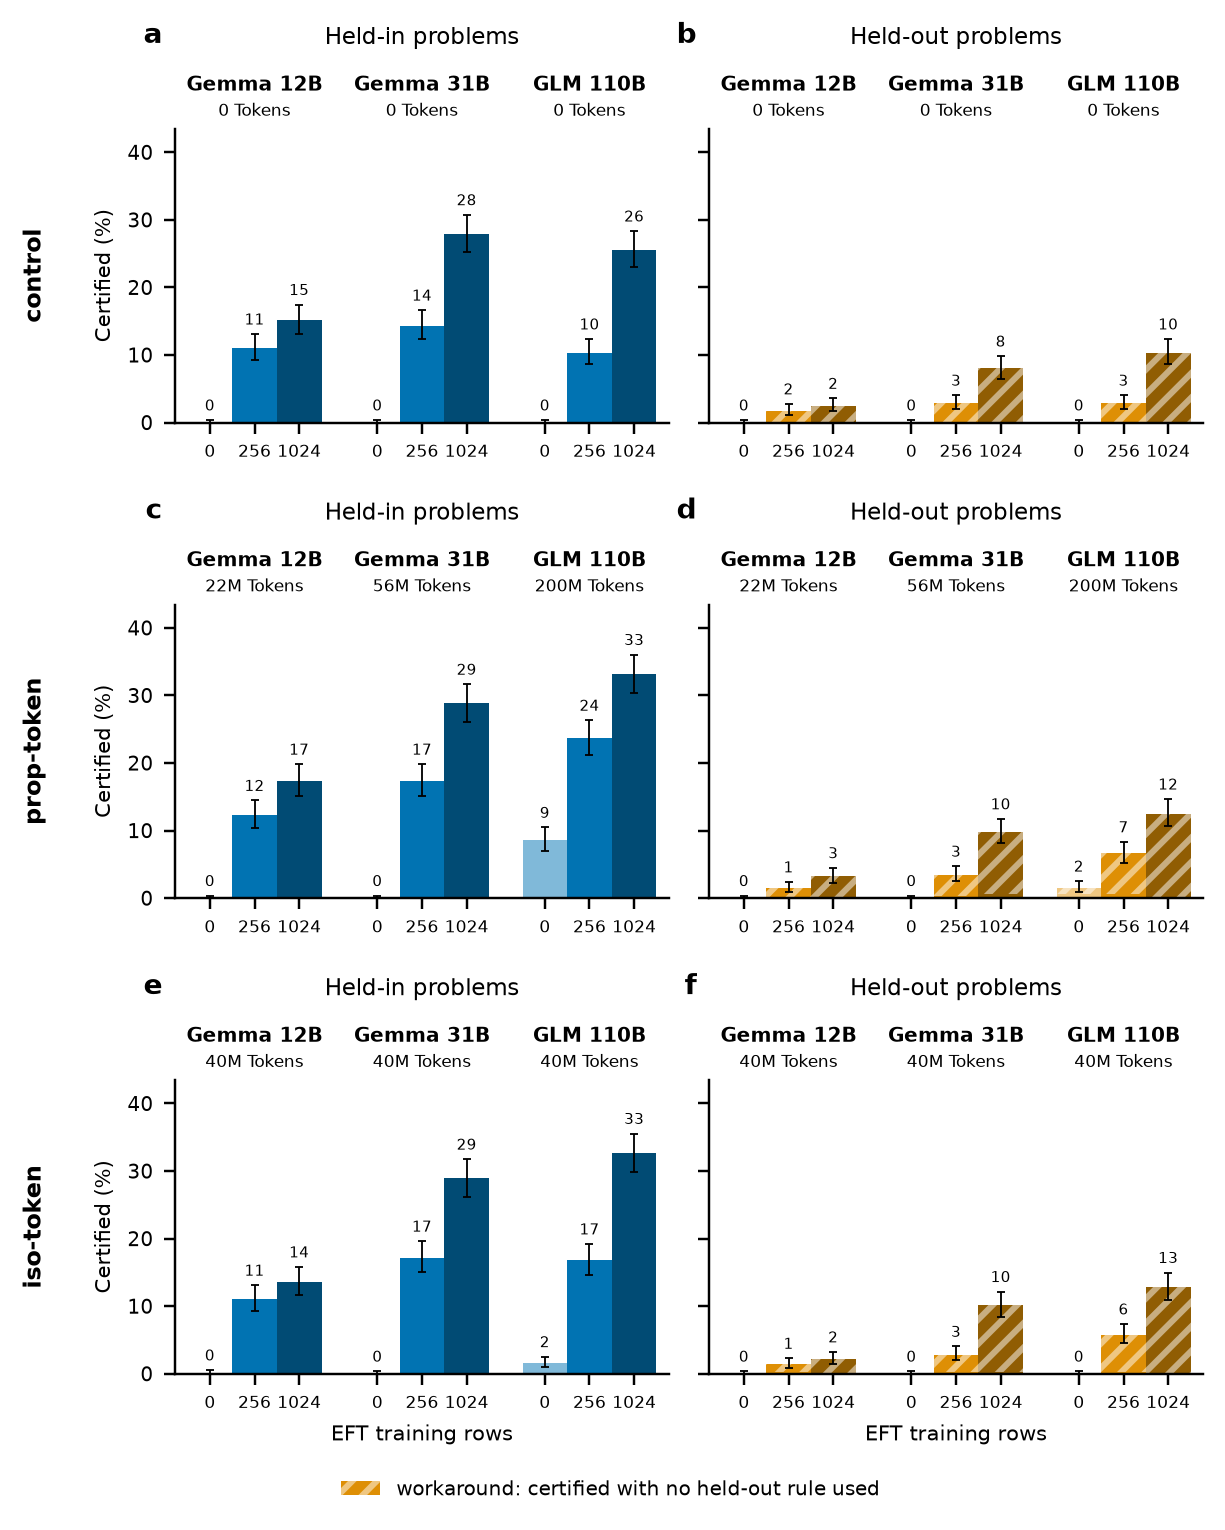
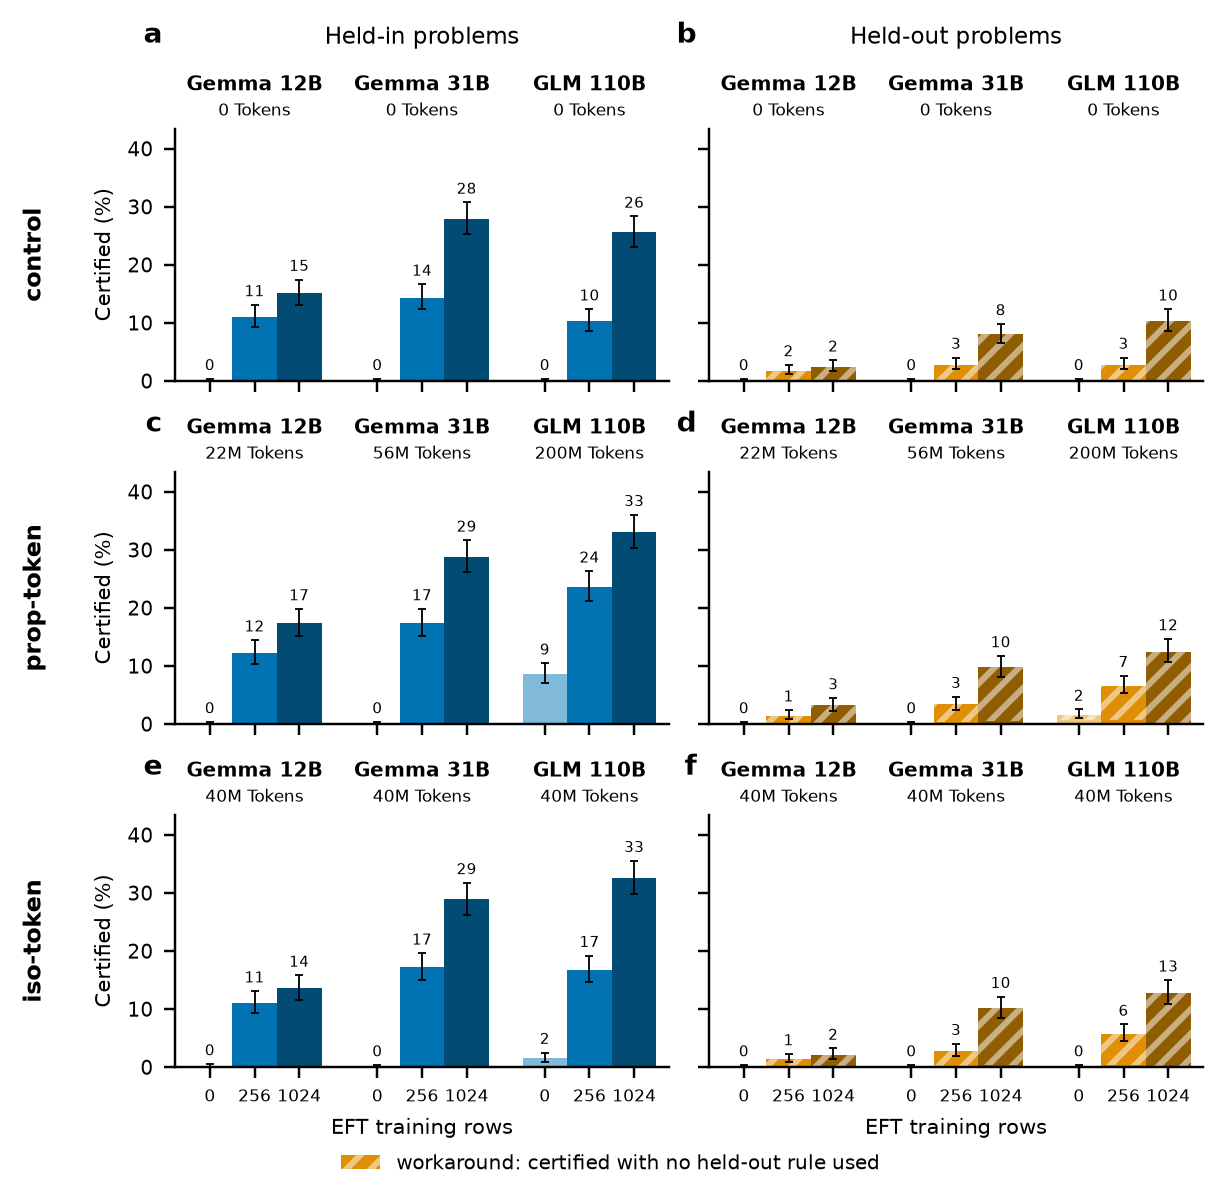
eft supplementary figures: vertically compressed (column titles top row only, EFT tick labels bottom row only, tighter rows; ~5.3-5.5 in tall)

diff --git a/experiments/python4/plot_eft_figures.py b/experiments/python4/plot_eft_figures.py
@@ -103,9 +103,11 @@ def peak(D, metric, arms):
     return max(cell_stats(D[mk][arm][dk], metric, split)[2]
                for arm in arms for mk, _ in MODELS for dk, _ in DOSES for split in ("held_in", "held_out"))
 
-def panel(ax, D, metric, arm, split, top, letter, col_title, xlabel):
-    """One held-in or held-out panel for one arm; header = letter, column title,
-    model names with the arm's token dose underneath (offsets in points)."""
+def panel(ax, D, metric, arm, split, top, letter, col_title=None, xlabel=False, xticklabels=True):
+    """One held-in or held-out panel for one arm; header = letter, optional column
+    title, model names with the arm's token dose underneath (offsets in points).
+    In stacked figures the column title goes on the top row only and the EFT tick
+    labels on the bottom row only."""
     for gi, (mk, _) in enumerate(MODELS):
         for di, (dk, _) in enumerate(DOSES):
             x = CENTERS[gi] + (di - 1) * BW
@@ -120,12 +122,15 @@ def panel(ax, D, metric, arm, split, top, letter, col_title, xlabel):
         ax.annotate(ml, xy=(CENTERS[gi], 1.0), xycoords=("data", "axes fraction"),
                     xytext=(0, 11), textcoords="offset points", ha="center", va="bottom",
                     fontsize=6.5, fontweight="bold")
-    ax.annotate(letter, xy=(0, 1.0), xycoords="axes fraction", xytext=(-4, 26),
+    ax.annotate(letter, xy=(0, 1.0), xycoords="axes fraction", xytext=(-4, 26 if col_title else 11),
                 textcoords="offset points", ha="right", va="bottom", fontsize=9, fontweight="bold")
-    ax.annotate(col_title, xy=(0.5, 1.0), xycoords="axes fraction", xytext=(0, 26),
-                textcoords="offset points", ha="center", va="bottom", fontsize=7.5)
+    if col_title:
+        ax.annotate(col_title, xy=(0.5, 1.0), xycoords="axes fraction", xytext=(0, 26),
+                    textcoords="offset points", ha="center", va="bottom", fontsize=7.5)
     ax.set_xticks([c + (di - 1) * BW for c in CENTERS for di in range(3)])
     ax.set_xticklabels([d[1] for d in DOSES] * 3, fontsize=5.5)
+    if not xticklabels:
+        ax.tick_params(axis="x", labelbottom=False)
     if xlabel:
         ax.set_xlabel("EFT training rows")
 
@@ -144,7 +149,7 @@ def headline(D, metric, arm, out):
     fig, axes = plt.subplots(1, 2, figsize=(5.5, 2.8), sharey=True)
     top = 100 if metric == "expression" else min(100, peak(D, metric, [arm]) * 1.15 + 2)
     for ax, split, letter, title in zip(axes, ("held_in", "held_out"), LETTERS, col_titles(metric)):
-        panel(ax, D, metric, arm, split, top, letter, title, xlabel=True)
+        panel(ax, D, metric, arm, split, top, letter, col_title=title, xlabel=True)
     axes[0].set_ylabel(ylabel(metric))
     fig.subplots_adjust(left=0.09, right=0.99, top=0.80, bottom=0.16, wspace=0.08)
     save(fig, out)
@@ -154,21 +159,21 @@ def supplementary(D, metric, out):
     a-f. Rule expression: all 0-100. Code correctness: one shared y-scale across
     all six panels (autoscaled) + workaround legend below."""
     cert = metric == "certified"
-    fig, axes = plt.subplots(3, 2, figsize=(5.5, 6.9 if cert else 6.7), sharey=True)
+    fig, axes = plt.subplots(3, 2, figsize=(5.5, 5.4 if cert else 5.2), sharey=True)
     top = 100 if not cert else min(100, peak(D, metric, [a for a, _ in SUPP_ARMS]) * 1.15 + 2)
-    titles = col_titles(metric)
+    titles = col_titles(metric); last = len(SUPP_ARMS) - 1
     for r, (arm, arm_label) in enumerate(SUPP_ARMS):
         for c, split in enumerate(("held_in", "held_out")):
-            panel(axes[r][c], D, metric, arm, split, top, LETTERS[2 * r + c], titles[c],
-                  xlabel=(r == len(SUPP_ARMS) - 1))
+            panel(axes[r][c], D, metric, arm, split, top, LETTERS[2 * r + c],
+                  col_title=titles[c] if r == 0 else None, xlabel=(r == last), xticklabels=(r == last))
         axes[r][0].set_ylabel(ylabel(metric))
         axes[r][0].annotate(arm_label, xy=(0, 0.5), xycoords="axes fraction", xytext=(-46, 0),
                             textcoords="offset points", rotation=90, ha="center", va="center",
                             fontsize=8, fontweight="bold")
     if cert:
         fig.legend(handles=[workaround_handle()], loc="lower center", bbox_to_anchor=(0.5, 0.005), frameon=False)
-    fig.subplots_adjust(left=0.14, right=0.99, top=0.92, bottom=0.10 if cert else 0.07,
-                        wspace=0.08, hspace=0.62)
+    fig.subplots_adjust(left=0.14, right=0.99, top=0.90, bottom=0.11 if cert else 0.075,
+                        wspace=0.08, hspace=0.36)
     save(fig, out)
 
 def save(fig, out):

diff --git a/experiments/python4/plots_dose_grid/REVIEW.md b/experiments/python4/plots_dose_grid/REVIEW.md
@@ -6,7 +6,8 @@ default style with the seaborn-colorblind blue/orange hues as light–mid–dark
 ramps, solid bars (no outlines), top/right spines off, **Wilson-95% error bars**,
 no overall titles (captions name the metric).
 
-**Layout (every row).** Left panel = held-in, right panel = held-out. Nine bars =
+**Layout (every row).** Left panel = held-in, right panel = held-out (column
+titles on the top row only; EFT tick labels on the bottom row only). Nine bars =
 three model groups × three EFT levels (0 → 256 → 1024 training rows, light →
 dark). Blue = held-in, orange = held-out. Above each group: the model, then the
 arm's **total** midtrain Python-4 token dose over its 4 epochs (2 s.f.; captions
